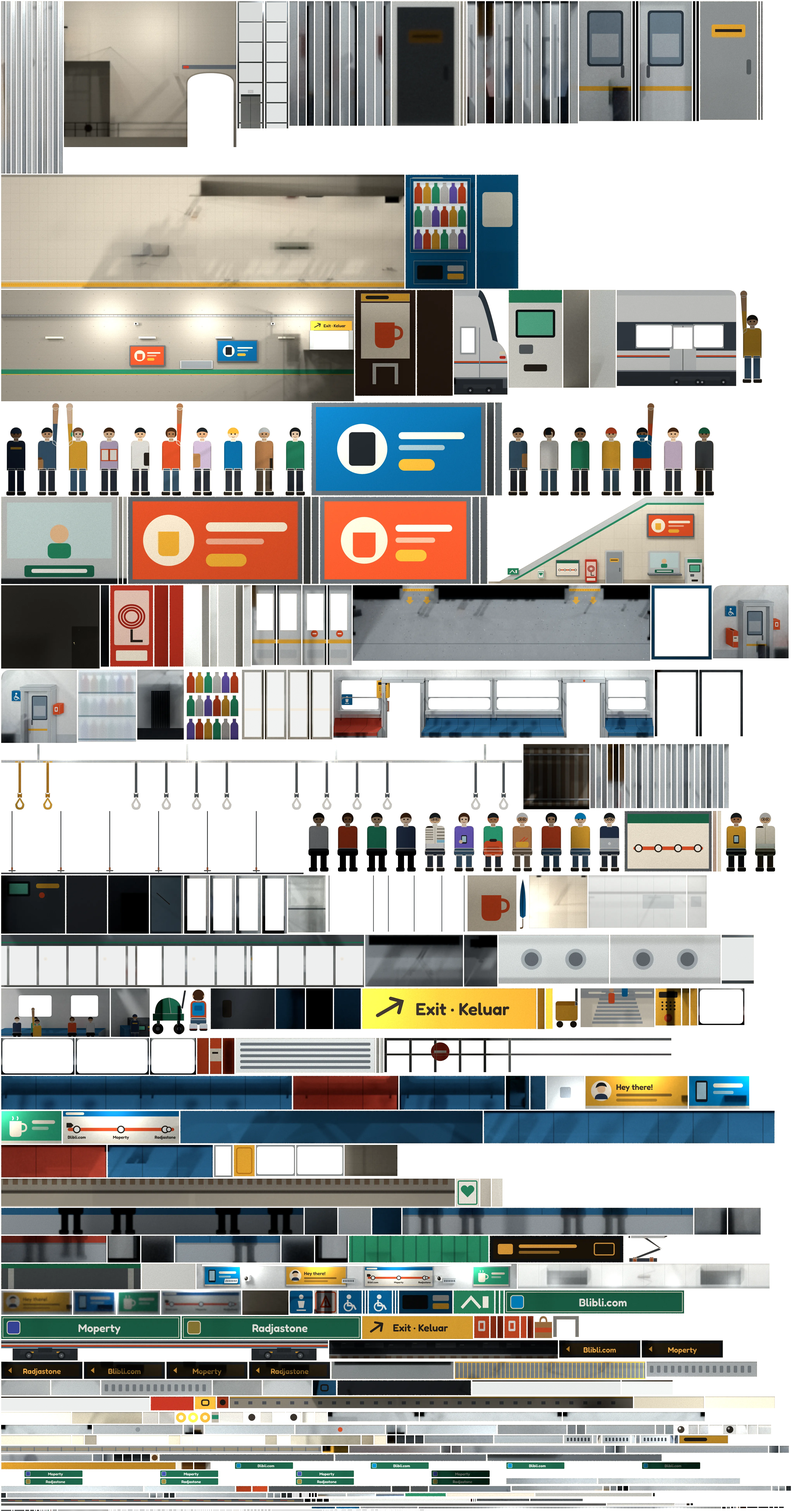
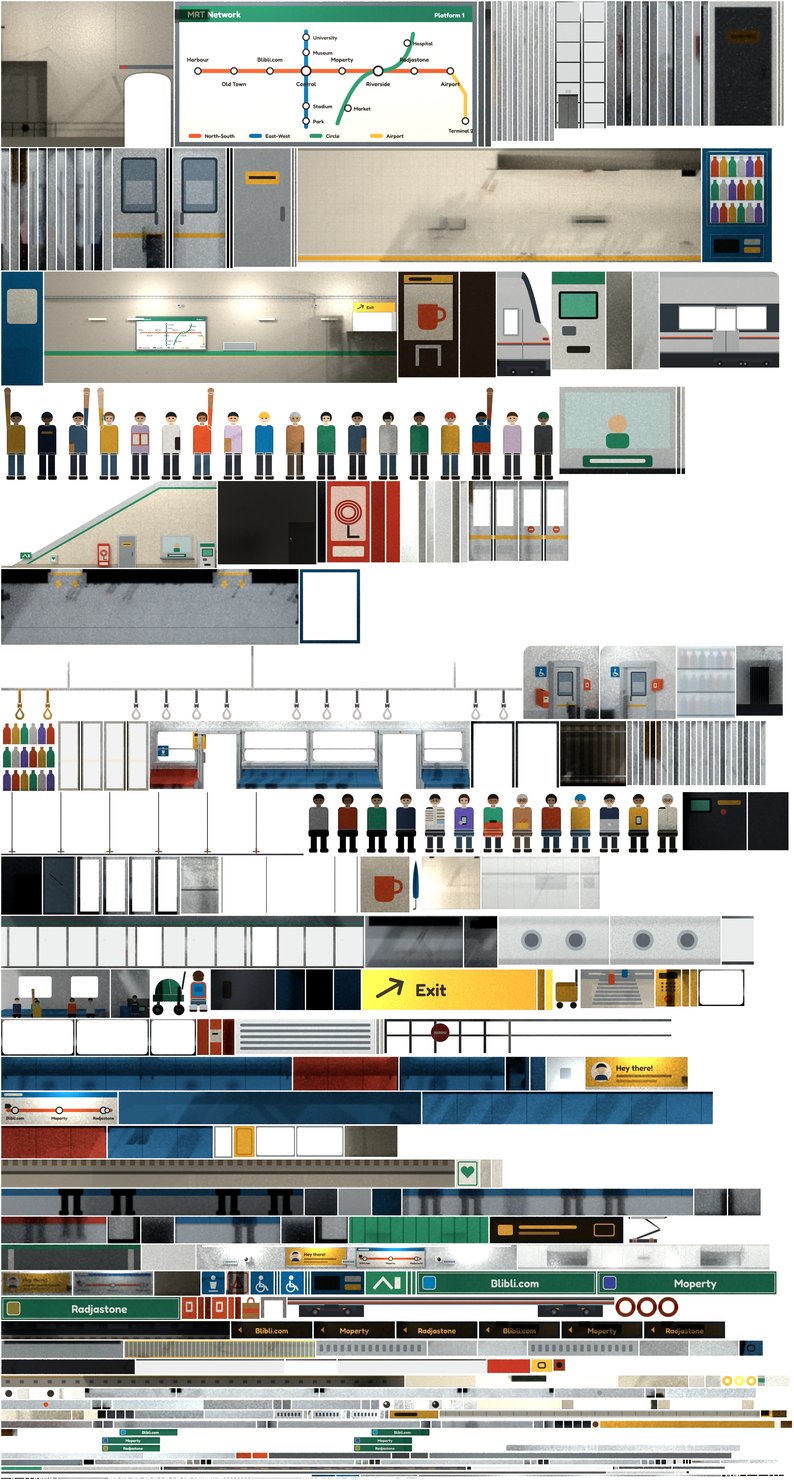
papercraft: clear the car's signs, English only, one of each sign, a full network map
The grab rail now runs under the cove with shorter straps and hangers only in
the gaps, so the poster, line map and next-stop displays read clearly. Duplicate
posters (phone and coffee ads, the second exit sign, the small core map, the
extra lightbox) are gone and the name boards along the wall are sparser. Signs
read in English. The back wall carries a complete MRT network map: four lines,
interchanges, the three stations, a legend and a you-are-here ring that follows
the line map.

Claude-Session: https://claude.ai/code/session_01YPNotQo1bPEcuKN34wT7ze

diff --git a/game/src/art/scenes/station.ts b/game/src/art/scenes/station.ts
@@ -116,19 +116,39 @@ function backWall(): Panel[] {
   const adArt = (w: number, h: number, c: string, k: number) => `<rect width="${w - 16}" height="${h - 16}" fill="${c}"/><circle cx="${(w - 16) * .28}" cy="${(h - 16) / 2}" r="${(h - 16) * .3}" fill="${CREAM}" fill-opacity=".9"/>${k ? `<rect x="${(w - 16) * .2}" y="${(h - 16) * .3}" width="${(w - 16) * .16}" height="${(h - 16) * .4}" rx="6" fill="#1d2228"/>` : `<path d="M${(w - 16) * .2} ${(h - 16) * .4}h${(w - 16) * .16}v${(h - 16) * .22}q0 ${(h - 16) * .1} -10 ${(h - 16) * .1}h${-(w - 16) * .16 + 20}q-10 0 -10 -10z" fill="${CORAL}"/>`}<rect x="${(w - 16) * .5}" y="${(h - 16) * .3}" width="${(w - 16) * .4}" height="12" rx="6" fill="${CREAM}"/><rect x="${(w - 16) * .5}" y="${(h - 16) * .3 + 22}" width="${(w - 16) * .28}" height="9" rx="4.5" fill="${CREAM}" fill-opacity=".6"/><rect x="${(w - 16) * .5}" y="${(h - 16) * .62}" width="${(w - 16) * .22}" height="20" rx="10" fill="${SUN}"/>`;
   const relief = carved(wall, [
     // Over the roof: big lightboxes, a vent band, wall lights and the cable tray that runs the length of the wall.
-    ...lightbox('wall-ad-a', -620, 440, 260, 150, adArt(260, 150, CORAL, 0)),
-    ...lightbox('wall-ad-b', 40, 470, 300, 160, adArt(300, 160, DEEP, 1)),
-    ...B({ id: 'wall-exit-frame', x: (EX0 + EX1) / 2, z: z + 6, y: EY1, w: EX1 - EX0 + 40, h: 70, d: 12, stock: 'cover', c: SUN, front: `<rect width="${EX1 - EX0 + 40}" height="70" fill="${SUN}"/><path d="M24 35H70M58 21L72 35L58 49" stroke="${INK}" stroke-width="6" fill="none" stroke-linecap="round" transform="rotate(-30 47 35)"/><text x="92" y="46" font-family="Fredoka" font-weight="600" font-size="30" fill="${INK}">Exit &#183; Keluar</text>` }),
+    ...B({ id: 'wall-exit-frame', x: (EX0 + EX1) / 2, z: z + 6, y: EY1, w: EX1 - EX0 + 40, h: 70, d: 12, stock: 'cover', c: SUN, front: `<rect width="${EX1 - EX0 + 40}" height="70" fill="${SUN}"/><path d="M24 35H70M58 21L72 35L58 49" stroke="${INK}" stroke-width="6" fill="none" stroke-linecap="round" transform="rotate(-30 47 35)"/><text x="92" y="46" font-family="Fredoka" font-weight="600" font-size="30" fill="${INK}">Exit</text>` }),
     ...[EX0 - 14, EX1 + 14].flatMap((x, i) => B({ id: `wall-exit-jamb-${i}`, x, z: z + 6, y: EY0, w: 28, h: EY1 - EY0, d: 12, stock: 'cover', c: STAINLESS })),
     ...B({ id: 'wall-vent', x: -260, z: z + 3, y: 420, w: 240, h: 60, d: 5, stock: 'cover', c: STAINLESS, front: `<rect width="240" height="60" fill="${STAINLESS}"/>${Array.from({ length: 5 }, (_, r) => `<rect x="8" y="${8 + r * 10}" width="224" height="5" rx="2" fill="${STEEL}"/>`).join('')}` }),
-    ...[-1300, -620, -60, 400].flatMap((x, i) => B({ id: `wall-light-${i}`, x, z: z + 10, y: 640, w: 120, h: 16, d: 20, stock: 'cover', c: '#fffbea', front: `<rect width="120" height="16" rx="3" fill="#fffbea"/>` })),
+    ...[-1300, -60, 400].flatMap((x, i) => B({ id: `wall-light-${i}`, x, z: z + 10, y: 640, w: 120, h: 16, d: 20, stock: 'cover', c: '#fffbea', front: `<rect width="120" height="16" rx="3" fill="#fffbea"/>` })),
     ...B({ id: 'wall-tray', x: (X0 + X1) / 2, z: z + 14, y: 800, w: SPAN, h: 14, d: 28, stock: 'cover', c: '#8e959c', front: `<rect width="${SPAN}" height="14" fill="#8e959c"/>${Array.from({ length: SPAN / 30 }, (_, i) => `<rect x="${i * 30}" width="3" height="14" fill="#6c737a"/>`).join('')}`, top: `<rect width="${SPAN}" height="28" fill="#6c737a"/>${Array.from({ length: SPAN / 60 }, (_, i) => `<rect x="${i * 60}" y="${6 + (i % 3) * 5}" width="60" height="4" fill="${['#2b3037', '#c8392a', SUN][i % 3]}"/>`).join('')}` }),
     ...[-700, 300].flatMap((x, i) => B({ id: `wall-cam-${i}`, x, z: z + 10, y: 740, w: 26, h: 18, d: 20, stock: 'cover', c: '#f4f6f8', front: `<circle cx="13" cy="9" r="6" fill="${INK}"/>` }))
   ]).map(p => ({ ...p, behind: true, ...(p.id.startsWith('wall-tray') && !p.ghost ? { density: .6 } : {}) }));
+  // The network map, a framed board on the back wall above the name band: four lines, their interchanges, the three
+  // stations the line map can pick, and a legend. The "you are here" pin follows the line map.
+  const MX = -760, MY = 420, MW = 520, MH = 250, mx = (i: number) => 40 + i * 62, LY = 120;
+  const ns = ['Harbour', 'Old Town', STATIONS[0].name, 'Central', STATIONS[1].name, 'Riverside', STATIONS[2].name, 'Airport'];
+  const dot = (x: number, y: number, big = false) => `<circle cx="${x}" cy="${y}" r="${big ? 8 : 5.5}" fill="#fff" stroke="${INK}" stroke-width="${big ? 3 : 2.2}"/>`;
+  const label = (x: number, y: number, t: string, anchor = 'middle', size = 10) => `<text x="${x}" y="${y}" text-anchor="${anchor}" font-family="Fredoka" font-weight="600" font-size="${size}" fill="${INK}">${t}</text>`;
+  const mapArt = `<rect width="${MW}" height="${MH}" fill="${STEEL}"/><rect x="8" y="8" width="${MW - 16}" height="${MH - 16}" fill="#fbf7ee"/><rect x="8" y="8" width="${MW - 16}" height="28" fill="${TEAL_DEEP}"/>${label(22, 28, 'MRT Network', 'start', 15).replace(INK, '#fff')}${label(MW - 22, 28, 'Platform 1', 'end', 11).replace(INK, '#fff')}`
+    // North-South (the train's own line, coral), along the middle
+    + `<path d="M${mx(0)} ${LY}H${mx(7)}" stroke="${CORAL}" stroke-width="7" stroke-linecap="round"/>`
+    // East-West (blue), crossing at Central; Circle (teal), crossing at Riverside; the airport branch (sun) from the end
+    + `<path d="M${mx(3)} 52V${MH - 34}" stroke="${DEEP}" stroke-width="7" stroke-linecap="round"/>`
+    + `<path d="M${mx(5) - 70} ${MH - 40}Q${mx(5) - 40} ${LY} ${mx(5)} ${LY}Q${mx(5) + 50} ${LY} ${mx(5) + 60} 56" stroke="${TEAL}" stroke-width="7" fill="none" stroke-linecap="round"/>`
+    + `<path d="M${mx(7)} ${LY}L${mx(7) + 26} ${LY + 40}V${MH - 44}" stroke="${SUN}" stroke-width="6" fill="none" stroke-linecap="round" stroke-dasharray="1 0"/>`
+    + ns.map((n, i) => dot(mx(i), LY, i === 3 || i === 5) + label(mx(i), i % 2 ? LY + 26 : LY - 16, n)).join('')
+    + [[62, 'University'], [88, 'Museum'], [MH - 70, 'Stadium'], [MH - 44, 'Park']].map(([y, n]) => dot(mx(3), +y) + label(mx(3) + 12, +y + 4, `${n}`, 'start', 9)).join('')
+    + [[mx(5) - 52, MH - 66, 'Market'], [mx(5) + 50, 72, 'Hospital']].map(([x, y, n]) => dot(+x, +y) + label(+x + 10, +y + 4, `${n}`, 'start', 9)).join('')
+    + dot(mx(7) + 26, MH - 44) + label(mx(7) + 18, MH - 24, 'Terminal 2', 'middle', 9)
+    + [[CORAL, 'North-South'], [DEEP, 'East-West'], [TEAL, 'Circle'], [SUN, 'Airport']].map(([c, n], i) => `<rect x="${24 + i * 104}" y="${MH - 22}" width="22" height="7" rx="3" fill="${c}"/>${label(52 + i * 104, MH - 15, n, 'start', 9)}`).join('');
+  const netMap = carved(wall, B({ id: 'wall-network-map', x: MX, z: z + 6, y: MY, w: MW, h: MH, d: 10, stock: 'cover', c: STEEL, front: mapArt })).map(p => ({ ...p, behind: true }));
+  // "You are here": a coral ring around the station's dot, standing just off the board.
+  const pins = STATIONS.map((_, k): Panel => on(wall, 12, MX - MW / 2 + mx(2 + k * 2) - 13 - X0, MY - LOW + MH - LY - 13, 26, 26, { id: `wall-map-pin-${k}`, stock: 'cover', c: CORAL, density: 4, decal: undefined, behind: true, show: { toy: 'line', at: [k] },
+    mask: `<path fill-rule="evenodd" d="M13 0A13 13 0 1 1 13 26A13 13 0 1 1 13 0Z M13 5A8 8 0 1 0 13 21A8 8 0 1 0 13 5Z" fill="#fff"/>`, print: `<rect width="26" height="26" fill="${CORAL}"/>` }));
   // The station's name, repeated along the band: it follows the line map.
   const names = STATIONS.map((st, k): Panel => on(wall, 1.5, 0, 380 - LOW, SPAN, 34, { id: `wall-name-${k}`, stock: 'cover', c: TEAL_DEEP, density: 1, show: { toy: 'line', at: [k] }, decal: undefined, behind: true,
-    mask: Array.from({ length: Math.ceil(SPAN / 700) }, (_, i) => `<rect x="${i * 700 + 120}" y="0" width="300" height="34" rx="4" fill="#fff"/>`).join(''),
-    print: Array.from({ length: Math.ceil(SPAN / 700) }, (_, i) => `<rect x="${i * 700 + 120}" width="300" height="34" rx="4" fill="${TEAL_DEEP}"/><rect x="${i * 700 + 128}" y="6" width="22" height="22" rx="4" fill="${st.c}" stroke="${CREAM}" stroke-width="1.6"/><text x="${i * 700 + 280}" y="25" text-anchor="middle" font-family="Fredoka" font-weight="600" font-size="20" fill="#fff">${st.name}</text>`).join('') }));
+    mask: Array.from({ length: Math.ceil(SPAN / 1300) }, (_, i) => `<rect x="${i * 1300 + 520}" y="0" width="300" height="34" rx="4" fill="#fff"/>`).join(''),
+    print: Array.from({ length: Math.ceil(SPAN / 1300) }, (_, i) => `<rect x="${i * 1300 + 520}" width="300" height="34" rx="4" fill="${TEAL_DEEP}"/><rect x="${i * 1300 + 528}" y="6" width="22" height="22" rx="4" fill="${st.c}" stroke="${CREAM}" stroke-width="1.6"/><text x="${i * 1300 + 680}" y="25" text-anchor="middle" font-family="Fredoka" font-weight="600" font-size="20" fill="#fff">${st.name}</text>`).join('') }));
   const lowW = X1 - 560;
   const wallLow: Panel = { id: 'wall-low', stock: 'greyboard', c: CONCRETE, w: lowW, h: LOW, o: [560, 0, WALL], u: [1, 0, 0], v: [0, 1, 0], edge: 'fold', density: .7, behind: true,
     print: `<rect width="${lowW}" height="${LOW}" fill="${CONCRETE}"/>${specks(lowW, LOW, '#9d988e', 60, 2.6)}<rect y="${LOW - 26}" width="${lowW}" height="26" fill="#8f8a80"/>${[60, 120].map(y => `<rect y="${y}" width="${lowW}" height="1.6" fill="#a29d93"/>`).join('')}` };
@@ -136,7 +156,7 @@ function backWall(): Panel[] {
   const PW = EX1 - EX0 + 120, PH = EY1 - EY0 + 60;
   const passage: Panel = { id: 'exit-passage', stock: 'cover', c: '#e9e2d4', w: PW, h: PH, o: [EX0 - 60, EY0 - 10, WALL - 240], u: [1, 0, 0], v: [0, 1, 0], edge: 'fold', density: 1, behind: true, emit: .25,
     print: `<rect width="${PW}" height="${PH}" fill="#e9e2d4"/><rect width="${PW}" height="50" fill="#a7adb4"/>${[0, 1, 2].map(i => `<rect x="${40 + i * 120}" y="18" width="90" height="10" rx="5" fill="#fffbea"/>`).join('')}${Array.from({ length: 9 }, (_, i) => `<rect x="${60 + i * 6}" y="${PH - 30 - i * 20}" width="${PW - 120 - i * 12}" height="12" fill="#9aa3ad"/>`).join('')}<circle cx="${PW * .42}" cy="${PH - 190}" r="12" fill="${SKIN[1]}"/><rect x="${PW * .42 - 16}" y="${PH - 176}" width="32" height="54" rx="8" fill="${CORAL}"/><circle cx="${PW * .6}" cy="${PH - 220}" r="11" fill="${SKIN[2]}"/><rect x="${PW * .6 - 15}" y="${PH - 207}" width="30" height="50" rx="8" fill="${DEEP}"/>` };
-  return [wall, wallLow, ...relief, ...names, passage];
+  return [wall, wallLow, ...relief, ...netMap, ...pins, ...names, passage];
 }
 
 // The escalator up to the exit, rising to the right onto a deck along the back wall; the wall under the escalator
@@ -174,11 +194,9 @@ function escalator(): Panel[] {
   ];
   const wz = z + 1, B = (spec: Parameters<typeof box>[0]) => box(spec);
   const relief = carved(core, [
-    // Low, beside the escalator's foot: the "up" sign, the AED and the station map.
+    // Low, beside the escalator's foot: the "up" sign and the AED.
     ...B({ id: 'core-up', x: -330, z: wz + 4, y: 60, w: 70, h: 40, d: 6, stock: 'cover', c: TEAL, front: `<rect width="70" height="40" rx="5" fill="${TEAL}"/><path d="M14 30L30 12L46 30" stroke="#fff" stroke-width="5" fill="none"/><rect x="50" y="10" width="10" height="20" fill="#fff"/>` }),
     ...B({ id: 'core-aed', x: -150, z: wz + 9, y: 40, w: 40, h: 48, d: 18, stock: 'cover', c: '#f4f6f8', front: `<rect width="40" height="48" rx="3" fill="#f4f6f8"/><rect x="4" y="4" width="32" height="40" rx="2" fill="none" stroke="${TEAL}" stroke-width="2"/><path d="M20 32L10 22Q6 16 12 12Q17 10 20 15Q23 10 28 12Q34 16 30 22Z" fill="${TEAL}"/>` }),
-    ...B({ id: 'core-map', x: 20, z: wz + 3, y: 50, w: 150, h: 104, d: 6, stock: 'cover', c: '#fbf7ee',
-      front: `<rect width="150" height="104" fill="${STEEL}"/><rect x="5" y="5" width="140" height="94" fill="#fbf7ee"/><rect x="5" y="5" width="140" height="16" fill="${TEAL_DEEP}"/><path d="M18 64H132" stroke="${CORAL}" stroke-width="6" stroke-linecap="round"/>${[0, 1, 2, 3].map(i => `<circle cx="${24 + i * 34}" cy="64" r="6" fill="#fff" stroke="${INK}" stroke-width="2"/>`).join('')}` }),
     ...B({ id: 'core-fire', x: 170, z: wz + 12, y: 16, w: 74, h: 140, d: 24, stock: 'cover', c: '#c8392a', front: `<rect width="74" height="140" fill="#c8392a"/><rect x="7" y="9" width="60" height="94" rx="3" fill="#f3d6cf"/><g fill="none" stroke="#a52a1e" stroke-width="3">${[22, 17, 12].map(r => `<ellipse cx="37" cy="54" rx="${r}" ry="${r * .9}"/>`).join('')}</g><path d="M37 76V96H56" stroke="${INK}" stroke-width="4" fill="none"/><rect x="10" y="112" width="54" height="18" rx="2" fill="#fbf7ee"/>` }),
     ...B({ id: 'core-door-frame', x: 320, z: wz + 2, y: 0, w: 116, h: 214, d: 4, stock: 'cover', c: STAINLESS }),
     ...B({ id: 'core-door', x: 320, z: wz + 5, y: 0, w: 98, h: 204, d: 3, stock: 'cover', c: '#9aa3ad', front: `<rect width="98" height="204" fill="#9aa3ad"/><rect x="80" y="100" width="8" height="26" rx="3" fill="${STEEL}"/><rect x="20" y="40" width="58" height="22" rx="3" fill="${SUN}"/><rect x="26" y="48" width="46" height="5" fill="${INK}"/>` }),
@@ -186,8 +204,6 @@ function escalator(): Panel[] {
     ...B({ id: 'core-office', x: 640, z: wz + 4, y: 60, w: 200, h: 150, d: 6, stock: 'cover', c: STAINLESS, front: `<rect width="200" height="150" fill="${STAINLESS}"/><rect x="10" y="10" width="180" height="96" fill="#bfe0ea"/><rect x="10" y="10" width="180" height="96" fill="#fff" fill-opacity=".25"/><circle cx="100" cy="64" r="16" fill="${SKIN[0]}"/><rect x="80" y="80" width="40" height="26" rx="8" fill="${TEAL}"/><rect x="40" y="118" width="120" height="20" rx="4" fill="${TEAL_DEEP}"/><rect x="52" y="124" width="96" height="7" rx="3" fill="#fff"/>` }),
     ...B({ id: 'core-counter', x: 640, z: wz + 16, y: 60, w: 210, h: 10, d: 30, stock: 'cover', c: STEEL, top: `<rect width="210" height="30" fill="#8e959c"/>` }),
     ...B({ id: 'core-topup', x: 820, z: wz + 22, y: 0, w: 92, h: 168, d: 44, stock: 'cover', c: '#e9eef2', front: `<rect width="92" height="168" fill="#e9eef2"/><rect width="92" height="22" fill="${TEAL}"/><rect x="12" y="34" width="68" height="48" rx="4" fill="#14171b"/><rect x="16" y="38" width="60" height="40" fill="#5ec3a6"/><rect x="18" y="94" width="24" height="16" rx="3" fill="${STEEL}"/><rect x="26" y="128" width="40" height="12" rx="3" fill="${INK}"/>`, left: `<rect width="44" height="168" fill="#d6dde3"/>`, top: `<rect width="92" height="44" fill="#d6dde3"/>` }),
-    // High on the deck's fascia, over the roof: a big lightbox.
-    ...B({ id: 'core-ad-high', x: 680, z: wz + 8, y: 300, w: 300, h: 150, d: 12, stock: 'cover', c: STEEL, front: `<rect width="300" height="150" fill="${STEEL}"/><rect x="8" y="8" width="284" height="134" fill="${CORAL}"/><circle cx="70" cy="75" r="44" fill="${CREAM}"/><path d="M52 60H88V92Q88 102 78 102H62Q52 102 52 92Z" fill="${SUN}"/><rect x="134" y="44" width="140" height="16" rx="8" fill="${CREAM}"/><rect x="134" y="72" width="100" height="10" rx="5" fill="${CREAM}" fill-opacity=".6"/><rect x="134" y="98" width="70" height="22" rx="11" fill="${SUN}"/>` }),
   ]);
   return [core, ...relief, ...glass, steps, deck, ...riders];
 }
@@ -287,16 +303,17 @@ function signs(): Panel[] {
     print: `<rect width="${nameW}" height="${h}" fill="${TEAL_DEEP}"/><rect x="4" y="4" width="${nameW - 8}" height="${h - 8}" fill="none" stroke="${CREAM}" stroke-width="1.6"/><rect x="14" y="12" width="30" height="30" rx="6" fill="${st.c}" stroke="${CREAM}" stroke-width="2"/><text x="${nameW / 2 + 20}" y="37" text-anchor="middle" font-family="Fredoka" font-weight="600" font-size="26" fill="#fff">${st.name}</text>` }));
   const lid: Panel = { id: 'sign-name-top', stock: 'cover', c: STEEL, w: nameW, h: 30, o: [nx, y + h, z], u: [1, 0, 0], v: [0, 0, -1], edge: 'fold', density: 1 };
   const exitW = 260, exx = 180;
-  const exit: Panel[] = box({ id: 'sign-exit', x: exx + exitW / 2, z: z - 15, y, w: exitW, h, d: 30, stock: 'cover', c: SUN,
-    front: `<rect width="${exitW}" height="${h}" fill="${SUN}"/><path d="M18 27H50M38 15L50 27L38 39" stroke="${INK}" stroke-width="5" fill="none" stroke-linecap="round" stroke-linejoin="round" transform="rotate(-35 34 27)"/><text x="72" y="36" font-family="Fredoka" font-weight="600" font-size="24" fill="${INK}">Exit &#183; Keluar</text>` }).filter(p => /front/.test(p.id)).map(p => ({ ...p, density: 2.2 }));
+  const exitUnused: Panel[] = box({ id: 'sign-exit', x: exx + exitW / 2, z: z - 15, y, w: exitW, h, d: 30, stock: 'cover', c: SUN,
+    front: `<rect width="${exitW}" height="${h}" fill="${SUN}"/><path d="M18 27H50M38 15L50 27L38 39" stroke="${INK}" stroke-width="5" fill="none" stroke-linecap="round" stroke-linejoin="round" transform="rotate(-35 34 27)"/><text x="72" y="36" font-family="Fredoka" font-weight="600" font-size="24" fill="${INK}">Exit</text>` }).filter(p => /front/.test(p.id)).map(p => ({ ...p, density: 2.2 }));
   const ledW = 230, lx = 640;
   const led: Panel[] = box({ id: 'sign-led', x: lx + ledW / 2, z: z - 15, y: y + 4, w: ledW, h: h - 8, d: 26, stock: 'cover', c: '#14171b',
     front: `<rect width="${ledW}" height="${h - 8}" rx="4" fill="#14171b"/><rect x="6" y="6" width="${ledW - 12}" height="${h - 20}" fill="#221a0e"/><rect x="14" y="14" width="26" height="18" rx="3" fill="#ffb648"/><rect x="50" y="15" width="100" height="6" rx="3" fill="#ffb648"/><rect x="50" y="26" width="70" height="5" rx="2" fill="#ffb648" fill-opacity=".6"/><rect x="${ledW - 50}" y="13" width="34" height="20" rx="3" fill="none" stroke="#ffb648" stroke-width="2"/>` }).filter(p => /front|top/.test(p.id));
   const rodW = lx + ledW - nx, rodH = TOP - y - h + 6;
   const rodSheet: Panel = { id: 'sign-rods', stock: 'greyboard', c: STEEL, w: rodW, h: rodH, o: [nx, y + h - 6, z - 12], u: [1, 0, 0], v: [0, 1, 0], edge: 'cut', density: .6,
-    mask: [nx + 16, nx + nameW - 22, exx + 16, exx + exitW - 22, lx + 16, lx + ledW - 22].map(x => `<rect x="${x - nx}" width="6" height="${rodH}" fill="#fff"/>`).join('') };
+    mask: [nx + 16, nx + nameW - 22, lx + 16, lx + ledW - 22].map(x => `<rect x="${x - nx}" width="6" height="${rodH}" fill="#fff"/>`).join('') };
   void rods;
-  return [...name, lid, rodSheet, ...exit, ...led];
+  void exitUnused;
+  return [...name, lid, rodSheet, ...led];
 }
 
 export function station(): { panels: Panel[]; lamps: Lamp[] } {

diff --git a/game/src/art/scenes/train.ts b/game/src/art/scenes/train.ts
@@ -88,11 +88,9 @@ export function train(): Scene {
   ];
   const ads = [
     ...adFrame('ad-hello', -260, 220, `<rect width="220" height="64" fill="${SUN}"/><circle cx="34" cy="32" r="22" fill="${CREAM}"/><circle cx="34" cy="28" r="9" fill="#f3c9a0"/><path d="M22 26Q24 14 34 14Q44 14 46 24Q38 20 30 22Z" fill="#1d2228"/><path d="M20 50Q20 38 34 38Q48 38 48 50Z" fill="#2b3a55"/><text x="66" y="30" font-family="Fredoka" font-weight="600" font-size="17" fill="${INK}">Hey there!</text><rect x="66" y="38" width="120" height="6" rx="3" fill="${INK}" fill-opacity=".55"/><rect x="66" y="49" width="88" height="6" rx="3" fill="${INK}" fill-opacity=".35"/>`),
-    ...adFrame('ad-phone', -560, 130, `<rect width="130" height="64" fill="${BLUE}"/><rect x="14" y="10" width="26" height="46" rx="4" fill="#1d2228"/><rect x="17" y="14" width="20" height="36" fill="#bfe6f8"/><rect x="52" y="16" width="64" height="9" rx="4" fill="${CREAM}"/><rect x="52" y="32" width="44" height="7" rx="3" fill="${CREAM}" fill-opacity=".6"/>`),
-    ...adFrame('ad-coffee', 430, 130, `<rect width="130" height="64" fill="${MINT}"/><path d="M18 22H44V48Q44 56 36 56H26Q18 56 18 48Z" fill="${CREAM}"/><path d="M44 28Q54 28 54 36Q54 44 44 44" fill="none" stroke="${CREAM}" stroke-width="4"/><path d="M24 12Q28 16 24 20M34 12Q38 16 34 20" stroke="${CREAM}" stroke-width="2.4" fill="none"/><rect x="66" y="20" width="50" height="8" rx="4" fill="${CREAM}"/><rect x="66" y="34" width="36" height="7" rx="3" fill="${CREAM}" fill-opacity=".6"/>`),
   ];
   // The line map: one line, three named stations, the train's position, and a lamp that lights the chosen stop.
-  const lmX = 30, lmW = 250;
+  const lmX = 0, lmW = 250;
   const station = (k: number) => 30 + k * 95;
   const lineMap = adFrame('line-map', lmX, lmW, `<rect width="${lmW}" height="64" fill="#fbf7ee"/><rect width="${lmW}" height="12" fill="${DEEP}"/><rect x="6" y="3" width="40" height="6" rx="3" fill="${CREAM}"/><path d="M14 40H${lmW - 14}" stroke="${CORAL}" stroke-width="7" stroke-linecap="round"/>`
     + [0, 1, 2].map(k => `<circle cx="${station(k)}" cy="40" r="7" fill="#fff" stroke="${INK}" stroke-width="2.4"/><text x="${station(k)}" y="60" text-anchor="middle" font-family="Fredoka" font-weight="600" font-size="9" fill="${INK}">${STATIONS[k].name}</text>`).join('')
@@ -114,14 +112,16 @@ export function train(): Scene {
   const screen = (id: string, x: number): Panel => ({ id, stock: 'vellum', c: '#dff1f8', w: 64, h: 150, o: [x, 0, BACK], u: [0, 0, 1], v: [0, 1, 0], edge: 'cut', density: 2, mask: `<path fill-rule="evenodd" d="M0 0H64V150H0Z M8 8V142H56V8Z" fill="#fff"/>`, print: `<rect width="64" height="150" fill="${POLE}"/>` });
   const screens = [screen('screen-a', -404), screen('screen-b', -252), screen('screen-c', 252), screen('screen-d', 404)];
   // Grab poles at the door edges and the overhead rail with hanging straps. Poles meet the rail.
-  const RAIL_Y = 296, RAIL_Z = -62;
+  // The grab rail runs just under the cove, so it never crosses the signs printed there.
+  const RAIL_Y = 240, RAIL_Z = -62;
   const pole = (id: string, x: number, z: number): Panel[] => box({ id, x, z, w: 7, h: RAIL_Y, d: 7, stock: 'greyboard', c: POLE, front: `<rect x="1" width="2" height="${RAIL_Y}" fill="#fff" fill-opacity=".6"/>` }).filter(p => !/-(rear|under|top)$/.test(p.id));
   const poles = [...pole('pole-a', -330, -40), ...pole('pole-b', 330, -40), ...pole('pole-c', -252, BACK + 70), ...pole('pole-d', 252, BACK + 70)];
   // The overhead rail, its hangers and the hand straps, cut as one sheet: the train stands, so nothing swings.
   const strapXs = [-520, -460, -270, -205, -140, -75, 75, 140, 205, 270, 460, 520];
-  const SL = 104, RX0 = -W / 2 + 30, RW = W - 60, RT = CAR.COVE, RH = RT - (RAIL_Y - SL + 3), ry = (y: number) => RT - y;
+  const SL = 66, RX0 = -W / 2 + 30, RW = W - 60, RT = CAR.COVE, RH = RT - (RAIL_Y - SL + 3), ry = (y: number) => RT - y;
   const strapShape = (x: number) => { const l = x - RX0 - 10, t = ry(RAIL_Y + 3); return `M${l + 7} ${t}H${l + 13}V${t + SL - 34}H${l + 7}Z M${l + 5} ${t + SL - 36}H${l + 15}V${t + SL - 26}H${l + 5}Z M${l + 10} ${t + SL - 28}L${l + 20} ${t + SL - 12}Q${l + 20} ${t + SL} ${l + 10} ${t + SL}Q${l} ${t + SL} ${l} ${t + SL - 12}Z M${l + 10} ${t + SL - 21}L${l + 5} ${t + SL - 12}Q${l + 5} ${t + SL - 5} ${l + 10} ${t + SL - 5}Q${l + 15} ${t + SL - 5} ${l + 15} ${t + SL - 12}Z`; };
-  const hangerXs = [-480, -160, 160, 480];
+  // Hangers only in the gaps between the cove's signs.
+  const hangerXs = [-415, -20, 415];
   const overhead: Panel = { id: 'rail', stock: 'cover', c: POLE, w: RW, h: RH, o: [RX0, RT - RH, RAIL_Z], u: [1, 0, 0], v: [0, 1, 0], edge: 'cut', density: 2.4, split: 2,
     mask: `<rect y="${ry(RAIL_Y + 6)}" width="${RW}" height="6" fill="#fff"/>${hangerXs.map(x => `<rect x="${x - RX0 - 2.5}" y="0" width="5" height="${ry(RAIL_Y)}" fill="#fff"/>`).join('')}<path fill-rule="evenodd" d="${strapXs.map(strapShape).join(' ')}" fill="#fff"/>`,
     print: `<rect width="${RW}" height="${RH}" fill="${POLE}"/><rect y="${ry(RAIL_Y + 6)}" width="${RW}" height="2" fill="#fff" fill-opacity=".6"/>${strapXs.map(x => { const l = x - RX0 - 10, t = ry(RAIL_Y + 3), pri = x < -400; return `<rect x="${l}" y="${t}" width="20" height="${SL}" fill="${pri ? SUN : '#f4f6f8'}"/><rect x="${l + 7}" y="${t}" width="6" height="${SL - 34}" fill="${pri ? '#c9861f' : '#5d6670'}"/><rect x="${l + 5}" y="${t + SL - 36}" width="10" height="10" fill="${pri ? '#c9861f' : '#5d6670'}"/>`; }).join('')}` };

diff --git a/game/src/content.ts b/game/src/content.ts
@@ -20,7 +20,7 @@ export const content: Content = validateContent({ worlds: {
     stops: [
       { id: 'intercom', label: 'Intercom', x: -440, z: -50, focus: 1.5, look: -400, action: { kind: 'letter', letter: 'contact' } },
       { id: 'ad', label: 'Ad poster', x: -150, z: -40, action: { kind: 'letter', letter: 'hello' } },
-      { id: 'line-map', label: 'Line map', x: 120, z: -50, focus: 1.6, look: 170, action: { kind: 'toy', toy: 'line', states: 3 } },
+      { id: 'line-map', label: 'Line map', x: 120, z: -50, focus: 1.6, look: 130, action: { kind: 'toy', toy: 'line', states: 3 } },
       { id: 'door', label: 'Doors', x: 330, z: -56, reach: 110, action: { kind: 'ride', toy: 'line', to: [
         { world: 'blibli', stop: 'mailbox', label: 'Blibli.com' }, { world: 'moperty', stop: 'first-house', label: 'Moperty' }, { world: 'radjastone', stop: 'quarry', label: 'Radjastone' }] } } ],
     letters: [

diff --git a/game/docs/ART_BIBLE.md b/game/docs/ART_BIBLE.md
@@ -102,9 +102,9 @@ The player is a salaryman: white shirt, coral tie, navy suit, blue lanyard with 
 | Part | Build in the MRT car and the station |
 |---|---|
 | Main space | Freestanding seated and standing passengers (one figure design in `people.ts`: seated, standing with an arm up to a strap or pole, kneeling), grab poles, the overhead rail with hand straps, glass draft screens, a buggy, a suitcase, a shopping bag, a coffee cup |
-| Enclosed surroundings, the car | The car's own walls, all relief. Benches, the intercom, window sills, lips and jambs, door jambs and headers are carved on the back wall; the gangway and cab door frames and leaves, the emergency handles, the wheelchair plates and the extinguisher on the end walls; CCTV domes and speaker grilles on the cove. Ads, the line map and the next-stop display are flat, in frames |
-| Enclosed surroundings, the station | The screen doors right behind the car (glass panes in a steel frame; their leaves slide with the car's doors). The wall closing the underside of the escalator and its exit deck carries carved relief: the up sign, an AED, the station map, a fire hose cabinet, a staff door, the customer service window with its counter, a top-up machine and a big lightbox. The concrete back wall (board marks, tie holes, a teal band with the station's name boards) carries the exit opening (a stainless frame and the Exit sign, the passage and its stair seen through it), lightboxes, a vent, wall lights, CCTV and the cable tray. The station's end wall with the tunnel mouth, the tunnel's dark lining with its lamps, the gate closing the platform. The overhead conductor rail the pantograph presses on; the trackbed and near rail under the wheels; the undercar equipment between the bogies |
-| On the platform (freestanding) | Near the doors, seen through the windows: a drinks machine with a layered front and a coffee machine, a bench with two waiting, commuters at the screen doors, a student at the drinks machine. In the middle, rising over the roof: the escalator (sheared glass balustrades along the slope, grooved steps, riders), the exit deck with someone heading out, the glass lift with its cabin on the way up. A traveller with a suitcase, a cleaner with her trolley at the platform's end; hanging signs (station name, way out, next train) |
+| Enclosed surroundings, the car | The car's own walls, all relief. Benches, the intercom, window sills, lips and jambs, door jambs and headers are carved on the back wall; the gangway and cab door frames and leaves, the emergency handles, the wheelchair plates and the extinguisher on the end walls; CCTV domes and speaker grilles on the cove. The hello poster, the line map and the next-stop displays are flat, in frames; the grab rail runs just under the cove, hung only between them, so nothing crosses their text |
+| Enclosed surroundings, the station | The screen doors right behind the car (glass panes in a steel frame; their leaves slide with the car's doors). The wall closing the underside of the escalator and its exit deck carries carved relief: the up sign, an AED, a fire hose cabinet, a staff door, the customer service window with its counter and a top-up machine. The concrete back wall (board marks, tie holes, a teal band with the station's name boards) carries the exit opening (a stainless frame and the Exit sign, the passage and its stair seen through it), the network map (four lines, their interchanges, the three stations the line map picks, a legend, and a coral "you are here" ring that follows the line map), one lightbox, a vent, wall lights, CCTV and the cable tray. The station's end wall with the tunnel mouth, the tunnel's dark lining with its lamps, the gate closing the platform. The overhead conductor rail the pantograph presses on; the trackbed and near rail under the wheels; the undercar equipment between the bogies |
+| On the platform (freestanding) | Near the doors, seen through the windows: a drinks machine with a layered front and a coffee machine, a bench with two waiting, commuters at the screen doors, a student at the drinks machine. In the middle, rising over the roof: the escalator (sheared glass balustrades along the slope, grooved steps, riders), the exit deck with someone heading out, the glass lift with its cabin on the way up. A traveller with a suitcase, a cleaner with her trolley at the platform's end; hanging signs (station name, next train) |
 | Framing | The cut floor slab and underframe across the front, with the bogies on the rail; the roof cut and roof top with air-con housings and the pantograph; the neighbouring car past the left gangway and the cab past the right end wall as real shells (cut windows onto their interior: the next car's riders, the driver at his desk) |
 
 The back wall, its relief and the station's end are drawn in the 3D context behind the stage (`behind`): they are the backmost things, and sorted with the near quads the browser would split and drop them.
@@ -179,6 +179,7 @@ Measured on the worst case: software GPU, 4x CPU throttle, DPR 2.625, landscape.
 
 Measured in the cloud container (software GPU, 4x CPU throttle, DPR 2.625), which runs slower than the reference machine: the street at 27 fps landscape and 44 portrait, and the MRT car with its old moving outside at 16 and 27 (the station replaced that outside; see the budget above). Unthrottled in the same container, the car walking past the deep station runs at about 15 fps landscape and 38 portrait, against 21 and 47 for the shallow first station: the deep platform's large back sheets and its escalator and lift each cost a few frames. Hidden floor and wall still cost drawing, so they are cut to what the camera can see.
 - Sheets that only exist to move can merge once they stand still: the car's rail, hangers and twelve straps are one cut sheet.
+- Every printed word is English, and no poster or sign is repeated: one of each, where it is needed.
 - A slope's glass is a sheared sheet along the slope, not a rectangle around it.
 
 Panels that swap with a toy (`show`) or ride a belt (`group`) are baked as phantoms: lit, but casting no shadow, so variants sharing a spot never shade each other and a belt box leaves no shadow where it no longer is. Hidden variants are not in the page, so they cost nothing.
